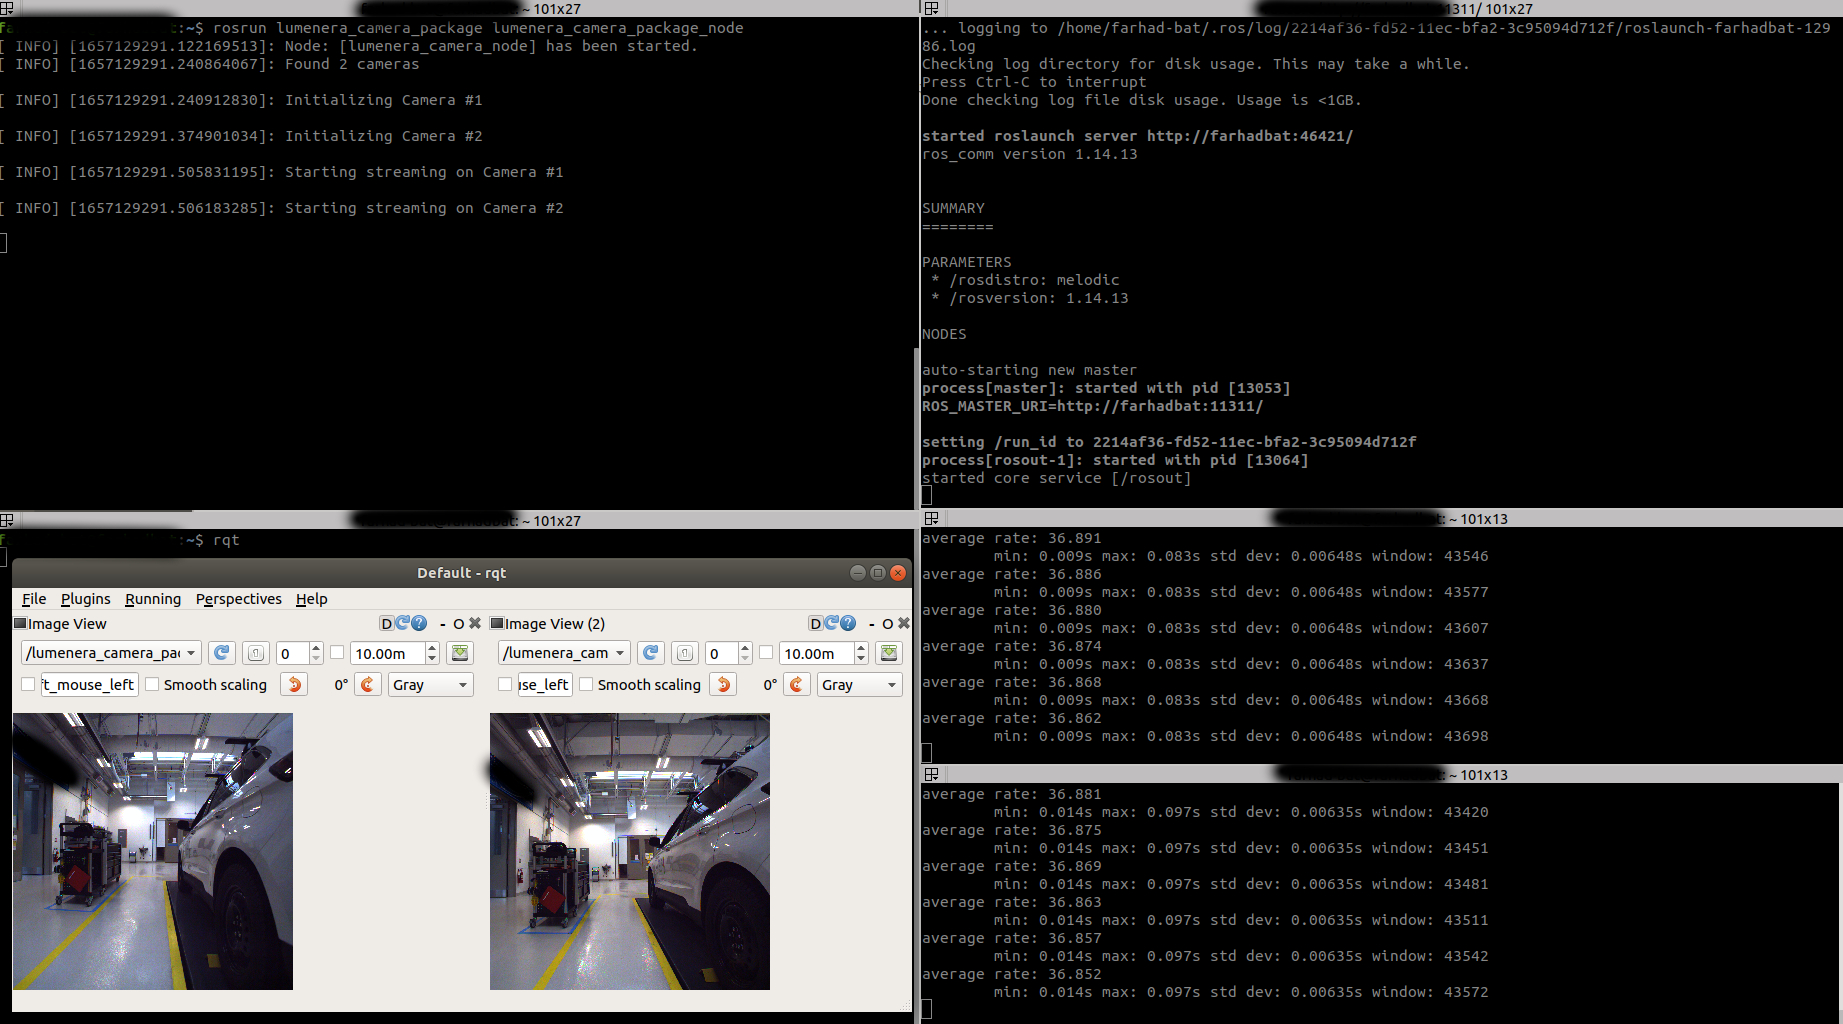
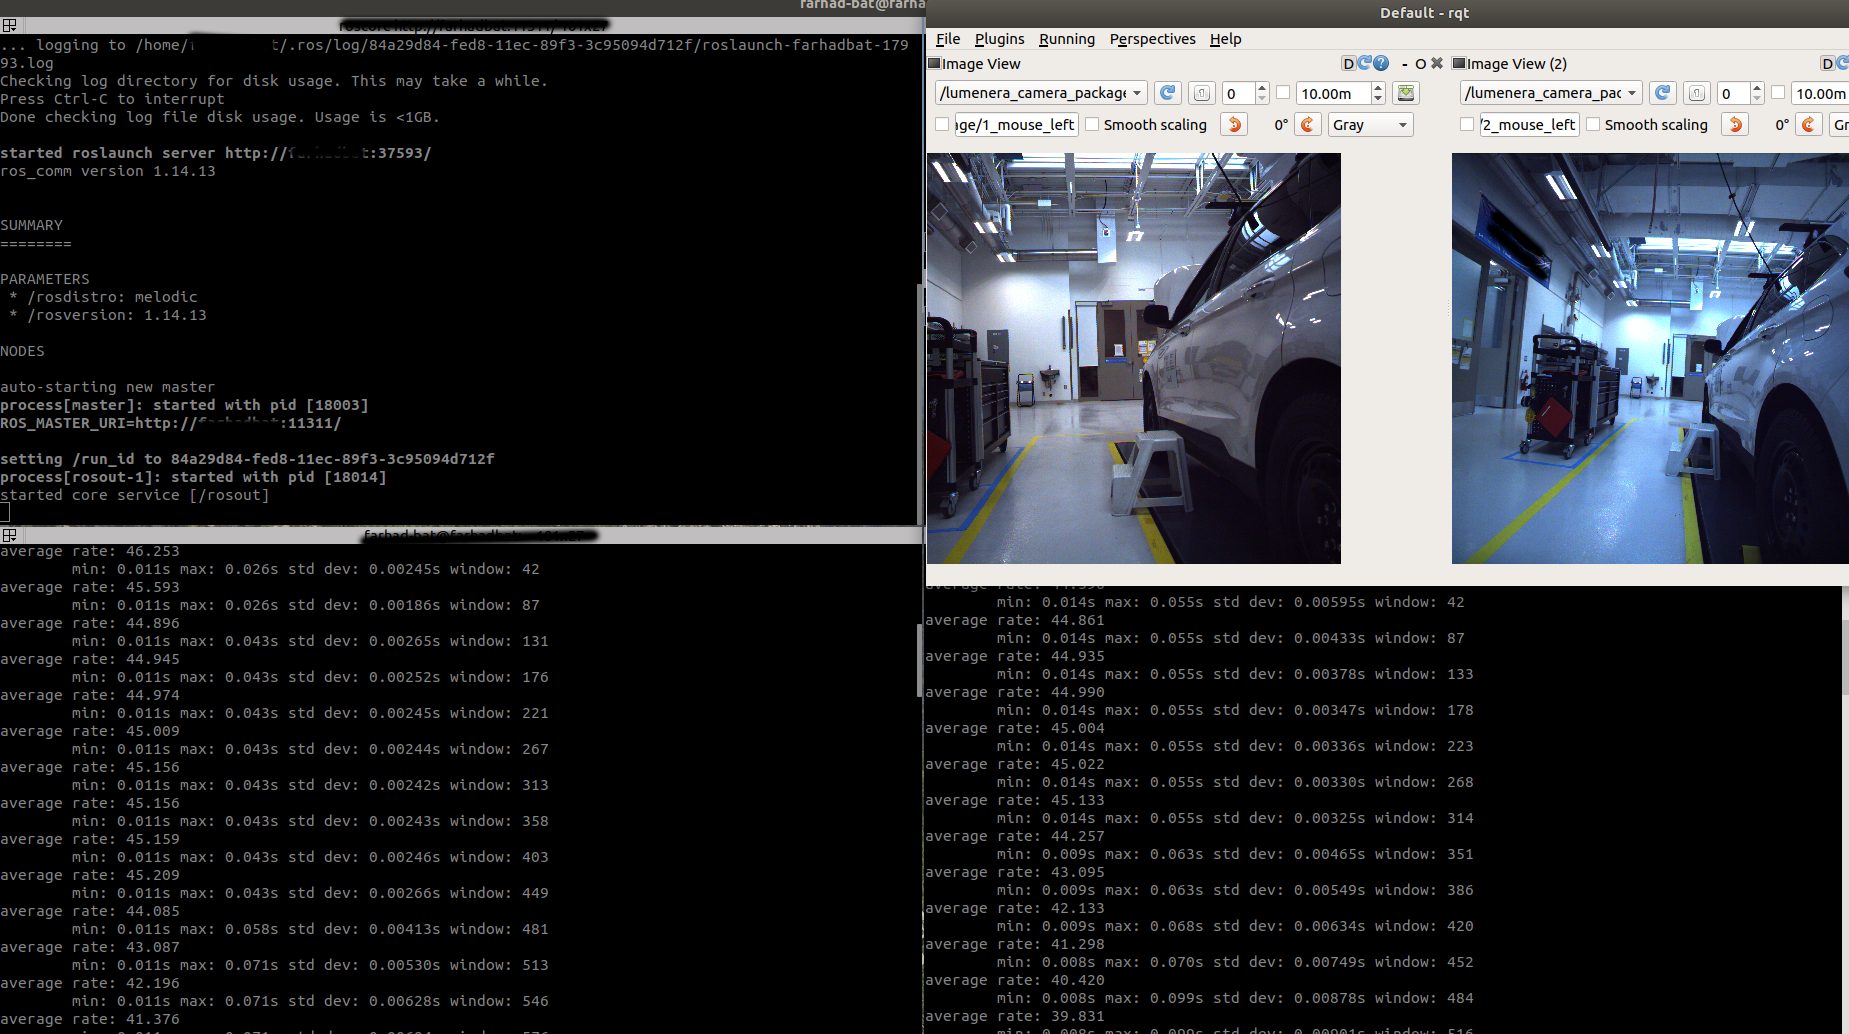
update demo image

diff --git a/README.md b/README.md
@@ -19,7 +19,7 @@ For each camera, it produces one topic with the name `/lumenera_camera_package/i
 
 You can subscribe to topics and use the published images.
 
-For example, in the following image, I connected two lumenera cameras to my PC and I executed the ROS node. It published two topics, one for each camera. The frame rate for each one of the two is near 37.
+For example, in the following image, I connected two lumenera cameras to my PC and I executed the ROS node. It published two topics, one for each camera. The frame rate for each one of the two is near 46.
 ![Lumenera Cameras ROS package](/imgs/demo-0.png?raw=true)
 
 
